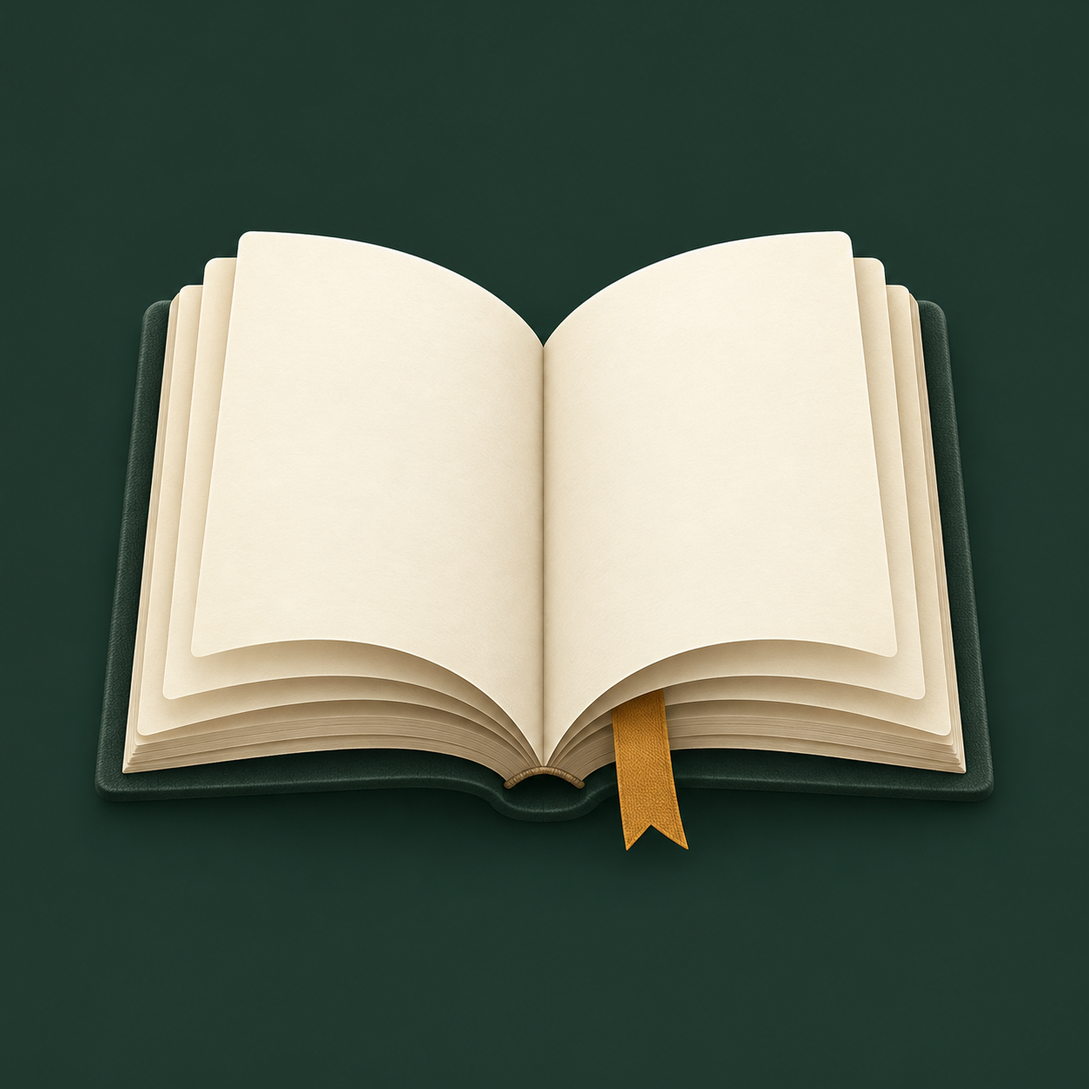
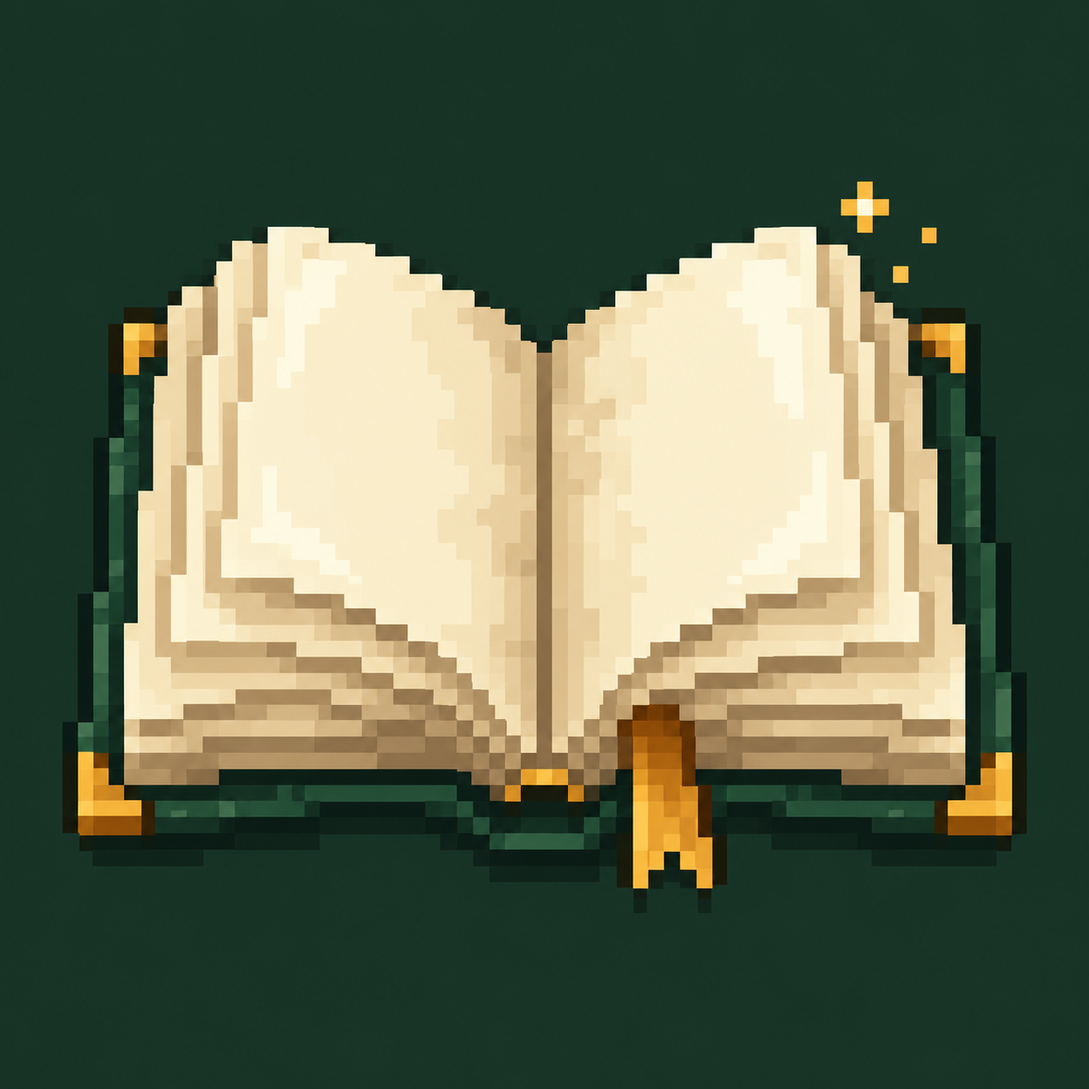
Refine pixel-art branding and inline sidebar navigation

Changed region(s): [[0.0311, 0.1555, 0.9641, 0.8397]]

diff --git a/apps/apple/BookNook/BookNookApp.swift b/apps/apple/BookNook/BookNookApp.swift
@@ -7,6 +7,48 @@ let nookPaper = readingPaper
 let nookInk = Color(red: 41.0 / 255, green: 63.0 / 255, blue: 56.0 / 255)
 let nookAccent = Color(red: 0.22, green: 0.39, blue: 0.33)
 
+struct BookNookNavigation {
+    var sidebarNeedsReveal = false
+    var showSidebar: () -> Void = {}
+}
+
+private struct BookNookNavigationKey: EnvironmentKey {
+    static let defaultValue = BookNookNavigation()
+}
+
+extension EnvironmentValues {
+    var bookNookNavigation: BookNookNavigation {
+        get { self[BookNookNavigationKey.self] }
+        set { self[BookNookNavigationKey.self] = newValue }
+    }
+}
+
+/// Reopening belongs to the section's existing heading, not another toolbar row.
+struct SidebarRevealButton: View {
+    @Environment(\.bookNookNavigation) private var navigation
+    var body: some View {
+        if navigation.sidebarNeedsReveal {
+            Button(action: navigation.showSidebar) {
+                Image(systemName: "sidebar.left").frame(width: 44, height: 44)
+            }
+            .buttonStyle(.borderless)
+            .accessibilityLabel("Show sidebar")
+            .accessibilityIdentifier("show-sidebar")
+            .help("Show your library and navigation")
+        }
+    }
+}
+
+private struct BookNookNavigationChrome: ViewModifier {
+    func body(content: Content) -> some View {
+        #if os(iOS)
+        content.toolbar(removing: .sidebarToggle).toolbar(.hidden, for: .navigationBar)
+        #else
+        content.toolbar(removing: .sidebarToggle)
+        #endif
+    }
+}
+
 #if !BOOKNOOK_TEST
 @main struct BookNookApp: App {
     @StateObject private var model = DeskModel()
@@ -28,10 +70,26 @@ struct RootView: View {
     @State private var exporting = false
     @State private var reviewingBackup = false
     @State private var exportDocument: ExportDocument?
+    @State private var columnVisibility = NavigationSplitViewVisibility.all
+    @State private var compactColumn = NavigationSplitViewColumn.detail
+    #if os(iOS)
+    @Environment(\.horizontalSizeClass) private var horizontalSizeClass
+    #endif
     var body: some View {
-        NavigationSplitView {
+        NavigationSplitView(columnVisibility: $columnVisibility, preferredCompactColumn: $compactColumn) {
             VStack(alignment: .leading, spacing: 22) {
-                HStack(spacing: 10) { Image(systemName: "book.closed").font(.title); Text("Book Nook").font(.system(.title2, design: .serif)).bold() }.padding(.top, 16)
+                HStack(spacing: 10) {
+                    Image("BookNookMark").resizable().interpolation(.none).scaledToFit()
+                        .frame(width: 28, height: 28).clipShape(RoundedRectangle(cornerRadius: 6))
+                        .accessibilityHidden(true)
+                    Text("Book Nook").font(.system(.title2, design: .serif)).bold().lineLimit(1).minimumScaleFactor(0.8)
+                    Spacer(minLength: 0)
+                    Button {
+                        withAnimation { columnVisibility = .detailOnly; compactColumn = .detail }
+                    } label: { Image(systemName: "sidebar.left").frame(width: 44, height: 44) }
+                    .buttonStyle(.borderless).accessibilityLabel("Hide sidebar")
+                    .accessibilityIdentifier("hide-sidebar").help("Make room for your reading desk")
+                }.padding(.top, 4)
                 Text("A little room for big ideas.").font(.caption).foregroundStyle(.secondary)
                 VStack(spacing: 4) {
                     nav("desk", "Reading desk", "pencil.and.outline")
@@ -45,7 +103,7 @@ struct RootView: View {
                 ScrollView {
                     LazyVStack(alignment: .leading, spacing: 8) {
                         ForEach(model.books) { book in
-                            Button { Task { do { try await model.selectBook(book.id); model.section = "desk" } catch { model.error = bookNookErrorMessage(error) } } } label: {
+                            Button { Task { do { try await model.selectBook(book.id); model.section = "desk"; showDetailInCompact() } catch { model.error = bookNookErrorMessage(error) } } } label: {
                                 HStack(alignment: .top) {
                                     RoundedRectangle(cornerRadius: 3).fill(nookAccent.opacity(0.15)).frame(width: 27, height: 38).overlay(Image(systemName: "book.closed").font(.caption))
                                     VStack(alignment: .leading, spacing: 3) { Text(book.title).lineLimit(2).font(.callout); Text(book.authors.joined(separator: ", ")).font(.caption).foregroundStyle(.secondary).lineLimit(1) }
@@ -55,9 +113,28 @@ struct RootView: View {
                         }
                     }
                 }
-                Button { addBook = true } label: { Label("Add a book", systemImage: "plus") }.buttonStyle(.bordered)
+                HStack {
+                    Button { addBook = true } label: { Label("Add a book", systemImage: "plus") }.buttonStyle(.bordered)
+                    Spacer(minLength: 4)
+                    Menu {
+                        Menu {
+                            Button("Goodreads CSV") { importKind = "goodreads"; importing = true }
+                            Button("Kindle catalog JSON") { importKind = "kindle"; importing = true }
+                            Button("Restore Book Nook export") { importKind = "restore"; importing = true }
+                        } label: { Label("Import", systemImage: "square.and.arrow.down") }
+                        .accessibilityLabel("Import books or restore backup")
+                        .accessibilityIdentifier("library-import")
+                        Button { reviewingBackup = true } label: { Label("Export private backup", systemImage: "square.and.arrow.up") }
+                            .accessibilityIdentifier("export-private-backup")
+                            .disabled(model.saving || model.state == nil)
+                    } label: { Image(systemName: "ellipsis").frame(width: 44, height: 44) }
+                    .menuStyle(.button).buttonStyle(.borderless).accessibilityLabel("Import and backup")
+                    .accessibilityIdentifier("library-actions")
+                    .help("Import books or export a private backup")
+                }
                 Label(model.saving ? "Saving locally…" : "Your writing stays with you", systemImage: model.saving ? "clock" : "lock").font(.caption2).foregroundStyle(.secondary)
-            }.padding(20).background(nookPaper).navigationSplitViewColumnWidth(min: 220, ideal: 250, max: 320)
+            }.padding(20).background(nookPaper).navigationSplitViewColumnWidth(min: 240, ideal: 270, max: 320)
+                .modifier(BookNookNavigationChrome())
         } detail: {
             Group {
                 switch model.section {
@@ -67,20 +144,13 @@ struct RootView: View {
                 case "sync": SyncRecoveryView()
                 default: if model.book != nil { ReadingDeskView() } else { welcome }
                 }
-            }.background(nookPaper).toolbar {
-                ToolbarItemGroup {
-                    if model.section != "desk" {
-                    Menu { Button("Goodreads CSV") { importKind = "goodreads"; importing = true }; Button("Kindle catalog JSON") { importKind = "kindle"; importing = true }; Button("Restore Book Nook export") { importKind = "restore"; importing = true } } label: { Label("Import", systemImage: "square.and.arrow.down") }.accessibilityLabel("Import books or restore backup")
-                    Button { reviewingBackup = true } label: { Label("Export private backup", systemImage: "square.and.arrow.up") }.help("Save a complete, unencrypted backup of your library and private writing").disabled(model.saving || model.state == nil)
-                    }
-                }
-            }
+            }.background(nookPaper)
+                .environment(\.bookNookNavigation, BookNookNavigation(sidebarNeedsReveal: sidebarNeedsReveal, showSidebar: showSidebar))
+                .modifier(BookNookNavigationChrome())
         }
+        .navigationSplitViewStyle(.balanced)
         .foregroundStyle(nookInk)
-        #if os(iOS)
-        .toolbarBackground(nookPaper, for: .navigationBar)
-        .toolbarBackground(.visible, for: .navigationBar)
-        #else
+        #if os(macOS)
         .toolbarBackground(nookPaper, for: .windowToolbar)
         #endif
         .sheet(isPresented: $addBook) { AddBookView() }
@@ -98,6 +168,7 @@ struct RootView: View {
             }.padding(28).frame(minWidth: 380, idealWidth: 580)
         }
         .castaliaConsent(model.authorization)
+        .onChange(of: model.section) { _, _ in showDetailInCompact() }
         .onChange(of: scenePhase) { _, phase in if phase != .active { Task { do { try await model.drainSaves() } catch { model.error = bookNookErrorMessage(error) } } } }
         .fileImporter(isPresented: $importing, allowedContentTypes: importKind == "goodreads" ? [.commaSeparatedText, .plainText] : [.json]) { result in
             Task {
@@ -112,12 +183,30 @@ struct RootView: View {
         .fileExporter(isPresented: $exporting, document: exportDocument, contentType: .json, defaultFilename: "BookNook-export") { result in if case .failure(let e) = result, !bookNookOperationWasCancelled(e) { model.error = bookNookErrorMessage(e) } }
         .alert("Book Nook", isPresented: Binding(get: { model.error != nil }, set: { if !$0 { model.error = nil } })) { Button("OK") { model.error = nil }; if model.saving { Button("Retry save") { model.retrySave() } } } message: { Text(model.error ?? "") }
     }
+    private var sidebarNeedsReveal: Bool {
+        #if os(iOS)
+        columnVisibility == .detailOnly || horizontalSizeClass == .compact
+        #else
+        columnVisibility == .detailOnly
+        #endif
+    }
+    private func showSidebar() {
+        withAnimation { columnVisibility = .all; compactColumn = .sidebar }
+    }
+    private func showDetailInCompact() {
+        #if os(iOS)
+        if horizontalSizeClass == .compact { compactColumn = .detail }
+        #endif
+    }
     func nav(_ id: String, _ title: String, _ icon: String) -> some View {
-        Button { model.section = id } label: { Label(title, systemImage: icon).frame(maxWidth: .infinity, alignment: .leading).padding(10).background(model.section == id ? nookAccent.opacity(0.12) : .clear, in: RoundedRectangle(cornerRadius: 8)) }.buttonStyle(.plain)
+        Button { model.section = id; showDetailInCompact() } label: { Label(title, systemImage: icon).frame(maxWidth: .infinity, alignment: .leading).padding(10).background(model.section == id ? nookAccent.opacity(0.12) : .clear, in: RoundedRectangle(cornerRadius: 8)) }.buttonStyle(.plain)
     }
     var welcome: some View {
         VStack(alignment: .leading, spacing: 24) {
-            Image(systemName: "pencil.and.outline").font(.system(size: 42)).foregroundStyle(nookAccent)
+            HStack(spacing: 12) {
+                SidebarRevealButton()
+                Image(systemName: "pencil.and.outline").font(.system(size: 42)).foregroundStyle(nookAccent)
+            }
             Text("Make room for\nyour next thought.").font(.system(size: 42, weight: .regular, design: .serif))
             Text("Bring a book. Keep a notebook. Follow an idea from its first impression to everything it becomes.").font(.title3).foregroundStyle(.secondary).frame(maxWidth: 470, alignment: .leading)
             Button("Start your reading desk") { addBook = true }.buttonStyle(.borderedProminent).controlSize(.large)

diff --git a/apps/apple/BookNook/LibraryCommunity.swift b/apps/apple/BookNook/LibraryCommunity.swift
@@ -12,13 +12,13 @@ struct LibraryView: View {
     var body: some View {
         ScrollView {
             VStack(alignment: .leading, spacing: 24) {
-                Text("Your library").font(.system(size: 34, design: .serif))
+                HStack(spacing: 12) { SidebarRevealButton(); Text("Your library").font(.system(size: 34, design: .serif)) }
                 Text("A record of books, and of the reader you become.").foregroundStyle(.secondary)
                 TextField("Find a book or author", text: $query).textFieldStyle(.roundedBorder)
                 if filteredBooks.isEmpty {
                     VStack(alignment: .leading, spacing: 10) {
                         Text(model.books.isEmpty ? "Your library starts here" : "No matching books").font(.headline)
-                        Text(model.books.isEmpty ? "Add your first book from the sidebar, or import a library from the toolbar." : "Try a different title or author.").foregroundStyle(.secondary)
+                        Text(model.books.isEmpty ? "Add your first book from the sidebar, or use its import and backup menu to bring a library." : "Try a different title or author.").foregroundStyle(.secondary)
                         if !query.isEmpty { Button("Clear search") { query = "" } }
                     }.padding(.vertical, 18)
                 }
@@ -147,7 +147,7 @@ struct ConnectionsView: View {
     var body: some View {
         ScrollView {
             VStack(alignment: .leading, spacing: 24) {
-                Text("Your books. Your connections.").font(.system(size: 34, design: .serif))
+                HStack(spacing: 12) { SidebarRevealButton(); Text("Your books. Your connections.").font(.system(size: 34, design: .serif)) }
                 Text("The reading desk works offline. Every external source declares what it can provide.").foregroundStyle(.secondary)
                 ConnectionSetupView()
                 HStack { Label("Local library and notebook", systemImage: "internaldrive"); Spacer(); Text("Available").foregroundStyle(nookAccent) }.padding(20).background(nookAccent.opacity(0.04), in: RoundedRectangle(cornerRadius: 12))

diff --git a/scripts/generate-app-icons.swift b/scripts/generate-app-icons.swift
@@ -25,7 +25,7 @@ func render(pixels: Int, mac: Bool, to url: URL) throws {
     guard let context = CGContext(data: nil, width: pixels, height: pixels,
         bitsPerComponent: 8, bytesPerRow: pixels * 4, space: colorSpace,
         bitmapInfo: alpha.rawValue) else { fatalError("Cannot allocate icon bitmap") }
-    context.interpolationQuality = .high
+    context.interpolationQuality = .none
     let size = CGFloat(pixels), bounds = CGRect(x: 0, y: 0, width: size, height: size)
     if mac {
         // macOS 14 does not supply the iPad home-screen mask. Keep the
@@ -69,4 +69,13 @@ for mac in [false, true] {
     }
     try writeJSON(["images": images, "info": ["author": "xcode", "version": 1]], at: set.appendingPathComponent("Contents.json"))
 }
-print("Generated 20 iPad/macOS app-icon renditions from the original Book Nook artwork.")
+let mark = catalog.appendingPathComponent("BookNookMark.imageset")
+try FileManager.default.createDirectory(at: mark, withIntermediateDirectories: true)
+var markImages: [[String: Any]] = []
+for scale in 1...3 {
+    let name = "booknook-mark@\(scale)x.png"
+    try render(pixels: 32 * scale, mac: false, to: mark.appendingPathComponent(name))
+    markImages.append(["filename": name, "idiom": "universal", "scale": "\(scale)x"])
+}
+try writeJSON(["images": markImages, "info": ["author": "xcode", "version": 1]], at: mark.appendingPathComponent("Contents.json"))
+print("Generated 20 app icons and three pixel-art interface marks.")

diff --git a/apps/apple/BookNook/SyncRecovery.swift b/apps/apple/BookNook/SyncRecovery.swift
@@ -59,7 +59,7 @@ private struct SyncRecoveryContent: View {
     var body: some View {
         ScrollView {
             VStack(alignment: .leading, spacing: 24) {
-                Text("Keep your reading with you").font(.system(size: 34, design: .serif))
+                HStack(spacing: 12) { SidebarRevealButton(); Text("Keep your reading with you").font(.system(size: 34, design: .serif)) }
                 Text("Local writing is saved automatically. Review an encrypted snapshot before transferring it to another device that uses your Castalia identity.").foregroundStyle(.secondary)
                 VStack(alignment: .leading, spacing: 10) {
                     Text(prerequisites.canApprove ? "Ready to pair and approve transfers" : "Set up your identity before pairing").font(.headline)

diff --git a/apps/apple/BookNook/SocialCommunity.swift b/apps/apple/BookNook/SocialCommunity.swift
@@ -41,6 +41,7 @@ struct SocialCommunityView: View {
         ScrollView {
             VStack(alignment: .leading, spacing: 22) {
                 HStack(alignment: .top) {
+                    SidebarRevealButton()
                     VStack(alignment: .leading, spacing: 8) { Text(tab == "Discover" ? "Find your next read" : "A shared love of reading").font(.system(size: 32, design: .serif)); Text(tab == "Discover" ? "Follow your interests, at your own pace." : "A chronological conversation, at your own pace.").foregroundStyle(.secondary) }
                     Spacer()
                     if social.busy { ProgressView().controlSize(.small) }

diff --git a/apps/apple/BookNook/ReadingDeskView.swift b/apps/apple/BookNook/ReadingDeskView.swift
@@ -25,6 +25,7 @@ struct ReadingDeskView: View {
     var body: some View {
         VStack(spacing: 0) {
             HStack(alignment: .center) {
+                SidebarRevealButton()
                 VStack(alignment: .leading, spacing: 5) {
                     Text(model.book?.title ?? "Reading desk").font(.system(.title2, design: .serif)).lineLimit(1)
                     Text(model.book?.authors.joined(separator: ", ") ?? "").font(.caption).foregroundStyle(.secondary).lineLimit(1)

diff --git a/docs/DELIVERY.md b/docs/DELIVERY.md
@@ -2,7 +2,7 @@
 
 Book Nook has an integrated native development app and open Rust, Swift and WASM/TypeScript SDKs. **The production MVP is not release-qualified:** real source accounts, operational Castalia authority and remaining physical-device acceptance still need qualification. The app keeps these integration gates visible.
 
-The canonical **Book Nook 0.1.0 (2026101602)** app was built with the Release configuration, development-signed, installed and launched on the paired iPad on 2026-10-16. The user chose a normal local app installation. Its bundle is `org.booknook.ipad`; the separate QA app remains installed with its own notes and credentials. No private data was exported or migrated, no test fixture was seeded in the normal app, and no orientation command was sent. The profile expires on October 23 in Vancouver (2026-10-24 01:48:21 UTC), so this development-signed install needs renewal. The [focused QA and initial installation evidence](finger-local-release-evidence.json) records one successful end-to-end Simulator flow and the preceding 2026101601 build; the [icon-only follow-up](VALIDATION.md#original-app-icon--2026-10-16) records the newer app icon and signed build. This does not assert App Store distribution or close the external MVP qualification gates.
+The canonical **Book Nook 0.1.0 (2026101603)** app was built with the Release configuration, development-signed, installed and launched on the paired iPad on 2026-10-16. The user chose a normal local app installation. Its bundle is `org.booknook.ipad`; the separate QA app remains installed with its own notes and credentials. No private data was exported or migrated, no test fixture was seeded in the normal app, and no orientation command was sent. The profile expires on October 23 in Vancouver (2026-10-24 01:48:21 UTC), so this development-signed install needs renewal. The [focused QA and initial installation evidence](finger-local-release-evidence.json) records one successful end-to-end Simulator flow and the preceding 2026101601 build; the [pixel-art/sidebar follow-up](pixel-sidebar-evidence.json) records the newer signed build, revised artwork and inline navigation. This does not assert App Store distribution or close the external MVP qualification gates.
 
 ## Current reading desk
 

diff --git a/docs/VALIDATION.md b/docs/VALIDATION.md
@@ -1,5 +1,11 @@
 # Validation record
 
+## Pixel-art branding and inline sidebar navigation — 2026-10-16
+
+Both current Apple apps compile: signed iPad Release and macOS Debug, version **0.1.0 (2026101603)**. Asset/signature/source-hash checks verify the pixel app icons and the in-app sidebar mark. The focused Simulator suite passes **2 tests, 0 failures in 52.294 seconds**: header-aligned collapse/reopen, no redundant native navigation bar, reading/library/welcome transitions, Add-book cancellation, retained import choices and backup review/cancel, unchanged notebook text, and compact library navigation under a real UIKit child trait override. Full-screen synthetic screenshots were inspected. Earlier nonpasses are retained in [current evidence](pixel-sidebar-evidence.json), including an unsigned Simulator Keychain-entitlement alert when a prior check entered Connections; this suite does not qualify signing/custody.
+
+The normal iPad app was updated in place, preserving its app identity. No private data was exported or migrated, and no orientation command or physical-input automation was sent. Historical artifacts and broader integration/device qualification retain their documented scopes below.
+
 ## Original app icon — 2026-10-16
 
 The icon-only follow-up adds original open-book artwork, ten iPad renditions and ten macOS renditions. Every slot has the expected pixel dimensions; iPad PNGs are opaque and macOS PNGs retain transparent outer padding. Both target asset settings select their correct icon set. The signed iPad Release build **0.1.0 (2026101602)** passes compilation, signature verification and `CFBundleIcons`/compiled-asset checks; the macOS catalog separately compiles to `AppIconMac.icns` and `Assets.car`. The full macOS app was not rebuilt for this artwork-only change. The normal iPad app was updated in place. Functional notebook/reader code is unchanged from the focused QA below. The source artwork, native-size renders and [reproduction script](../scripts/generate-app-icons.swift) are included in the public repository; signing receipts remain local.

diff --git a/docs/DECISIONS.md b/docs/DECISIONS.md
@@ -164,3 +164,5 @@ Detailed workstream records: [social](decisions/social.md), [integrations](decis
 |---|---|---|
 | D104 | Publish the source as the public personal repository `bananawalnut/booknook` on `main`. | The user explicitly requested public GitHub publication under their personal account. Source, required generated bindings, original fixtures, licenses, ontology, synthetic screenshots and documented validation are included. Build outputs, signed device bundles/profiles, account state and credentials remain local. Documentation copies redact machine paths and Apple team identity; original receipts remain outside the repository. Scanner matches in immutable fixtures are content hashes, public claims and synthetic signed requests, not credentials. No public runtime endpoint or App Store release is implied. |
 | D105 | Use an original ivory open book and amber bookmark on deep green for Book Nook's app icon. | The user requested an icon before the final commit. Keep its source artwork and reproducible Apple renditions in the repository under MIT OR Apache-2.0. iPad uses opaque artwork with system masking; macOS uses an inset rounded tile with transparent outer padding. Each app target explicitly selects its icon set. |
+| D106 | Refine the icon into chunky fantasy-game pixel art and reuse it in the sidebar header. | The user requested a RuneScape-like, game-like direction. The original open-book sprite retains warm ivory, green leather and amber/gold accents without copying a game's exact asset. Native assets and the in-app mark use nearest-neighbor sampling. This supersedes the smooth artwork in D105. |
+| D107 | Put sidebar collapse beside Book Nook and reopen beside each section's existing heading; remove the redundant iPad navigation-bar row. | The user rejected empty space used only by the drawer icon. Explicit split-view visibility and compact-column navigation keep both show/hide paths available. Import and backup move into a small menu beside Add a book; their existing review/confirmation flow remains. |

diff --git a/README.md b/README.md
@@ -22,7 +22,7 @@ open apps/apple/Build/mac/Build/Products/Debug/BookNookMac.app
 
 For iPad, run `bash scripts/build-apple.sh ipad-sim`, then open `apps/apple/BookNook.xcodeproj` and choose `BookNookPad`. `ipad-device` compiles an unsigned physical-device variant; installation/distribution requires your own Apple signing team.
 
-Start with **Add a book**, or **Import** a Goodreads CSV or Kindle catalog. Attach an accessible EPUB or PDF in the reader. Entries without readable content still support tracking and notebooks. In **Your library → Subjects**, add catalog topics for interest-based discovery; matching ignores case and duplicate topics. No DRM removal or unrestricted Kindle-content access is provided.
+Start with **Add a book**, or import a Goodreads CSV or Kindle catalog from the sidebar’s **Import and backup** menu. Attach an accessible EPUB or PDF in the reader. Entries without readable content still support tracking and notebooks. In **Your library → Subjects**, add catalog topics for interest-based discovery; matching ignores case and duplicate topics. No DRM removal or unrestricted Kindle-content access is provided.
 
 On iPad, tap a text note to type. Flip that note to its whiteboard to draw with a finger or Apple Pencil; use two fingers to pan and pinch to zoom. The light margin provides character cards and note options. The **Notebook on left/right** button remembers placement. Original handwriting, erased versions and reviewed on-device transcriptions remain independently recoverable; transcription never replaces ink or typed prose. See the [handwriting guide](docs/NOTEBOOK-HANDWRITING.md).
 

diff --git a/assets/branding/README.md b/assets/branding/README.md
@@ -1,6 +1,6 @@
 # Book Nook icon
 
-The original Book Nook artwork shows an ivory open book and amber ribbon on deep green. It was created for this project using OpenAI image generation. The source artwork and its Apple app-icon renditions are available under **MIT OR Apache-2.0**, like the project's original documentation and build assets.
+The original Book Nook artwork is a chunky pixel-art open book with ivory pages, green leather, an amber ribbon and gold details, inspired by classic fantasy-game inventory sprites. It was created for this project using OpenAI image generation. The source artwork and its Apple app-icon renditions are available under **MIT OR Apache-2.0**, like the project's original documentation and build assets.
 
 `booknook-icon.png` is the high-resolution source image. On macOS, regenerate the complete Apple asset catalog from the repository root:
 
@@ -8,4 +8,4 @@ The original Book Nook artwork shows an ivory open book and amber ribbon on deep
 swift scripts/generate-app-icons.swift .
 ```
 
-iPad renditions are opaque, full-bleed squares for the system mask. macOS renditions include transparent padding and a rounded tile for macOS 14 and later. The artwork contains no embedded text or third-party logo.
+iPad renditions are opaque, full-bleed squares for the system mask. macOS renditions include transparent padding and a rounded tile for macOS 14 and later. The artwork contains no embedded text or third-party logo. App rendering uses nearest-neighbor sampling to preserve the visible pixels. `BookNookMark.imageset` supplies the same artwork for the app sidebar header.
